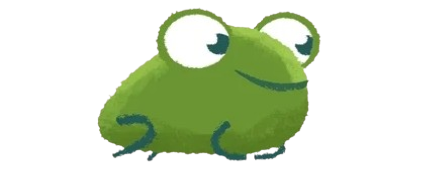
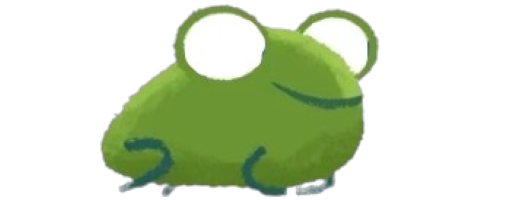
organização Imagens

Changed region(s): [[0.1818, 0.0, 0.7576, 1.0], [0.5152, 0.6897, 0.5455, 0.7471], [0.5152, 0.7759, 0.5455, 0.8046]]

diff --git a/corrida/MainPage.xaml b/corrida/MainPage.xaml
@@ -2,6 +2,7 @@
 <ContentPage xmlns="http://schemas.microsoft.com/dotnet/2021/maui"
              xmlns:x="http://schemas.microsoft.com/winfx/2009/xaml"
              x:Class="corrida.MainPage"
+              xmlns:ff="clr-namespace:FFImageLoading.Maui;assembly=FFImageLoading.Maui"
              Shell.NavBarIsVisible="false">
 
        <Grid>
@@ -55,13 +56,16 @@
               </HorizontalStackLayout>
 
 
-              <Image Source="player1.png"
-                     x:Name="imgPlayer"
-                     HorizontalOptions="Start"
-                     VerticalOptions="End"
-                      HeightRequest="400"
-                      WidthRequest="140 "
-                      />
+          
+                      
+                         <ff:CachedImageView x:Name="imgplayer"
+                      CacheType="Disk"
+                      CacheDuration="365"
+                       Source="player01.png"
+                       HorizontalOptions="Start"
+                            VerticalOptions="End"
+                            HeightRequest="400"
+                            WidthRequest="140"/>
           
 
 

diff --git a/corrida/Animacao.cs b/corrida/Animacao.cs
@@ -1,4 +1,5 @@
 namespace corrida;
+using FFImageLoading.Maui;
 
 public class Animacao
 {
@@ -9,10 +10,10 @@ public class Animacao
     protected int AnimacaoAtiva = 1;
     bool parado = true;
     int frameAtual = 1;
-    protected Image compImage;
-    public Animacao(Image a)
+    protected CachedImageView imageView;
+    public Animacao(CachedImageView a)
     {
-        compImage = a;
+         imageView = a;
     }
     public void Stop()
     {
@@ -47,7 +48,7 @@ public class Animacao
             NomeArquivo = animacao3[frameAtual];
             TamanhoAnimacao = animacao3.Count;
         }
-        compImage.Source = ImageSource.FromFile(NomeArquivo);
+         imageView.Source = ImageSource.FromFile(NomeArquivo);
         frameAtual++;
         if (frameAtual >= TamanhoAnimacao)
         {

diff --git a/corrida/Player.cs b/corrida/Player.cs
@@ -1,10 +1,11 @@
 using Microsoft.Maui.Platform;
+using FFImageLoading.Maui;
 
 namespace corrida;
 public delegate void Callback();
 public class Player : Animacao
 {
-    public Player(Image a) : base(a)
+    public Player ( CachedImageView a) : base(a)
     {
         for (int i = 1; i <= 6; ++i)
             animacao1.Add($"player{i.ToString("D2")}.png");
@@ -26,15 +27,15 @@ public class Player : Animacao
 
 public void MoveY( int s)
 {
-    compImage.TranslationY +=s;
+     imageView.TranslationY +=s;
 }
 public double GetY()
 {
-    return compImage.TranslationY;
+    return  imageView.TranslationY;
 }
 public void SetY (double a)
 {
-    compImage.TranslationY =a;
+     imageView.TranslationY =a;
 }
 }
 

diff --git a/corrida/MainPage.xaml.cs b/corrida/MainPage.xaml.cs
@@ -1,7 +1,16 @@
 namespace corrida;
+using FFImageLoading.Maui;
 
 public partial class MainPage : ContentPage
 {
+	public MainPage()
+	{
+		InitializeComponent();
+
+		player = new Player(imgplayer);
+		player.Run();
+	}
+
 	bool estaMorto = false;
 	bool estaPulando = false;
 
@@ -23,13 +32,7 @@ public partial class MainPage : ContentPage
 	int alturaJanela = 0;
 	Player player;
 
-	public MainPage()
-	{
-		InitializeComponent();
-
-		player = new Player(imgPlayer);
-		player.Run();
-	}
+	
 
 
 

diff --git a/corrida/MauiProgram.cs b/corrida/MauiProgram.cs
@@ -1,5 +1,5 @@
 using Microsoft.Extensions.Logging;
-
+using FFImageLoading.Maui;
 namespace corrida;
 
 public static class MauiProgram
@@ -9,6 +9,7 @@ public static class MauiProgram
 		var builder = MauiApp.CreateBuilder();
 		builder
 			.UseMauiApp<App>()
+			.UseFFImageLoading()
 			.ConfigureFonts(fonts =>
 			{
 				fonts.AddFont("OpenSans-Regular.ttf", "OpenSansRegular");
